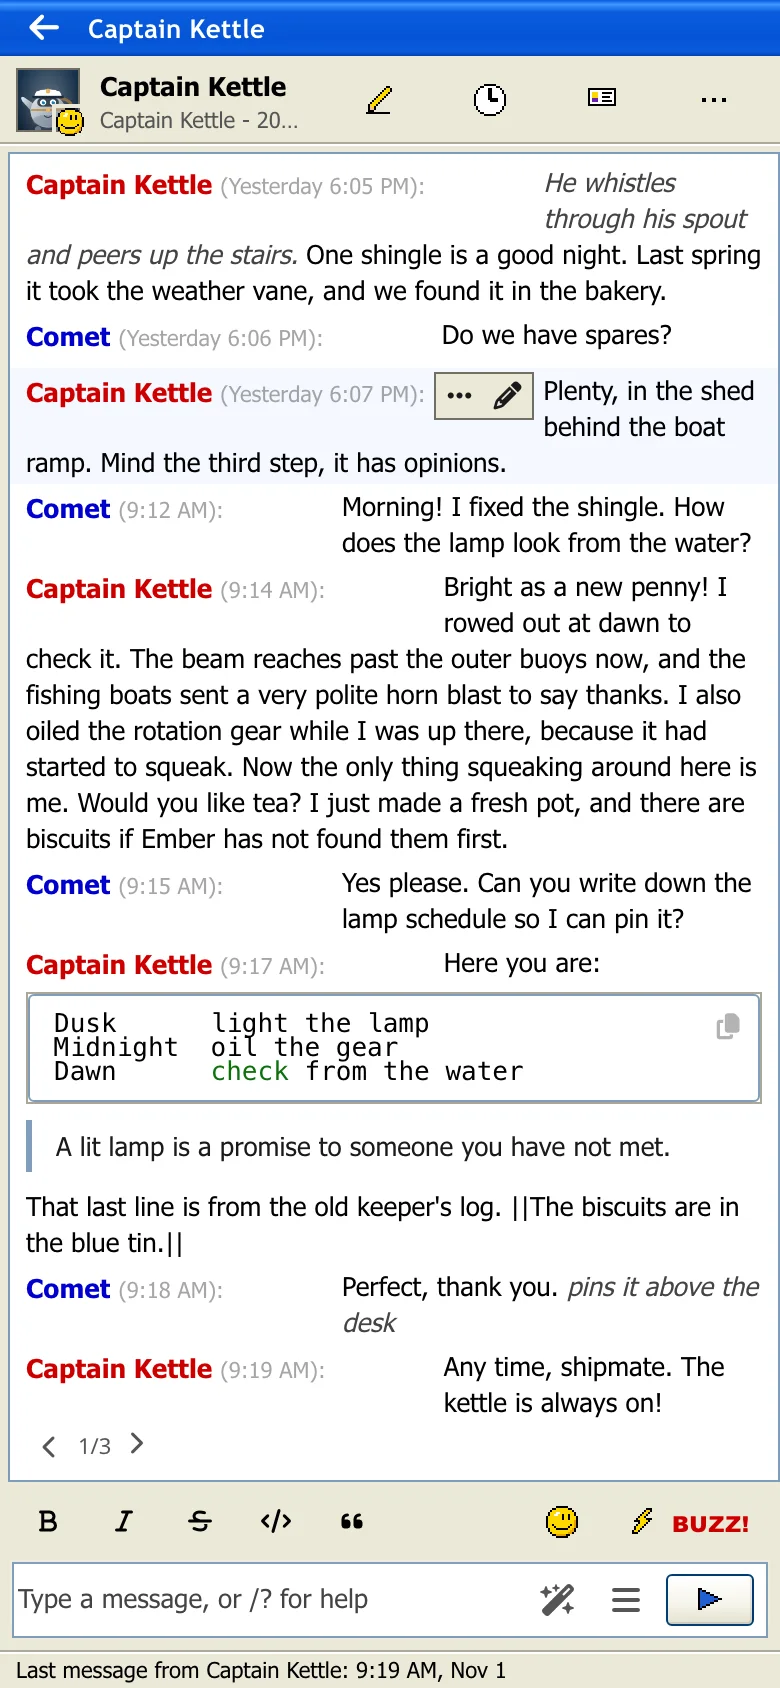
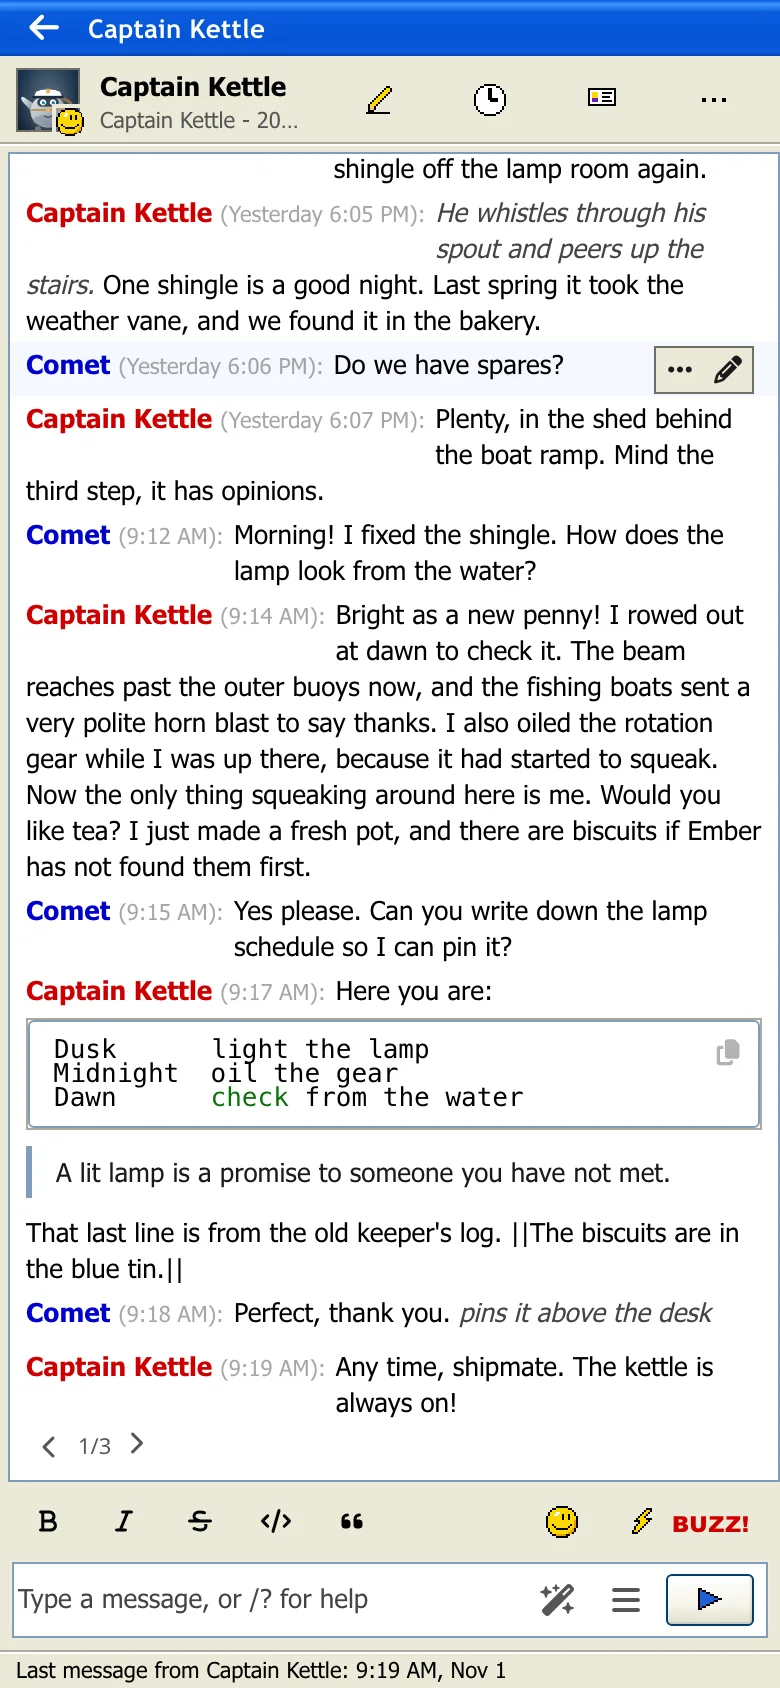
Start message text right after the name on phones in the retro look

Changed region(s): [[0.0308, 0.0924, 0.9846, 0.8626], [0.3077, 0.7701, 0.4, 0.8318]]

diff --git a/css/retro.css b/css/retro.css
@@ -920,3 +920,14 @@ body.yahoo-messenger.ym-retro #chat .mes .mes_text pre {
     border-radius: 0;
     background: #ffffff;
 }
+
+/* Touch screens: a message's buttons float at its corner, so the text still starts right after the name */
+@media screen and (max-width: 1000px) and (hover: none) {
+    body.yahoo-messenger.ym-retro:not(.ym-bubbles) #chat .mes .mes_buttons {
+        position: absolute;
+        top: 0;
+        right: 4px;
+        margin: 0;
+        background: var(--ym-face);
+    }
+}
